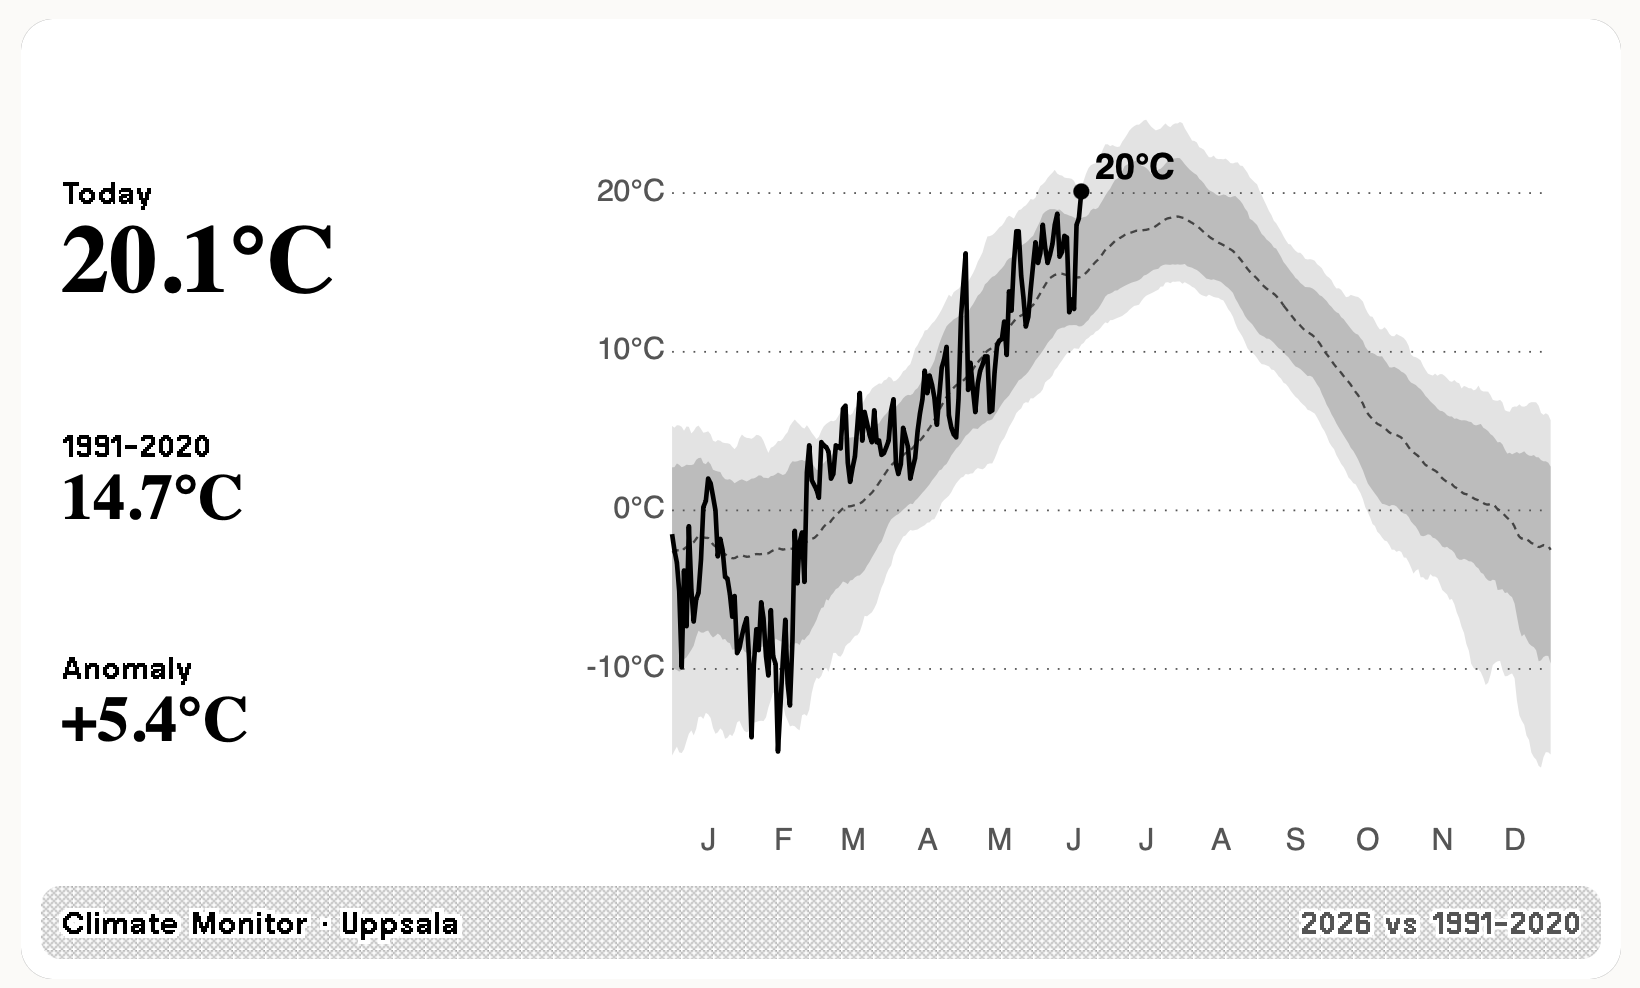
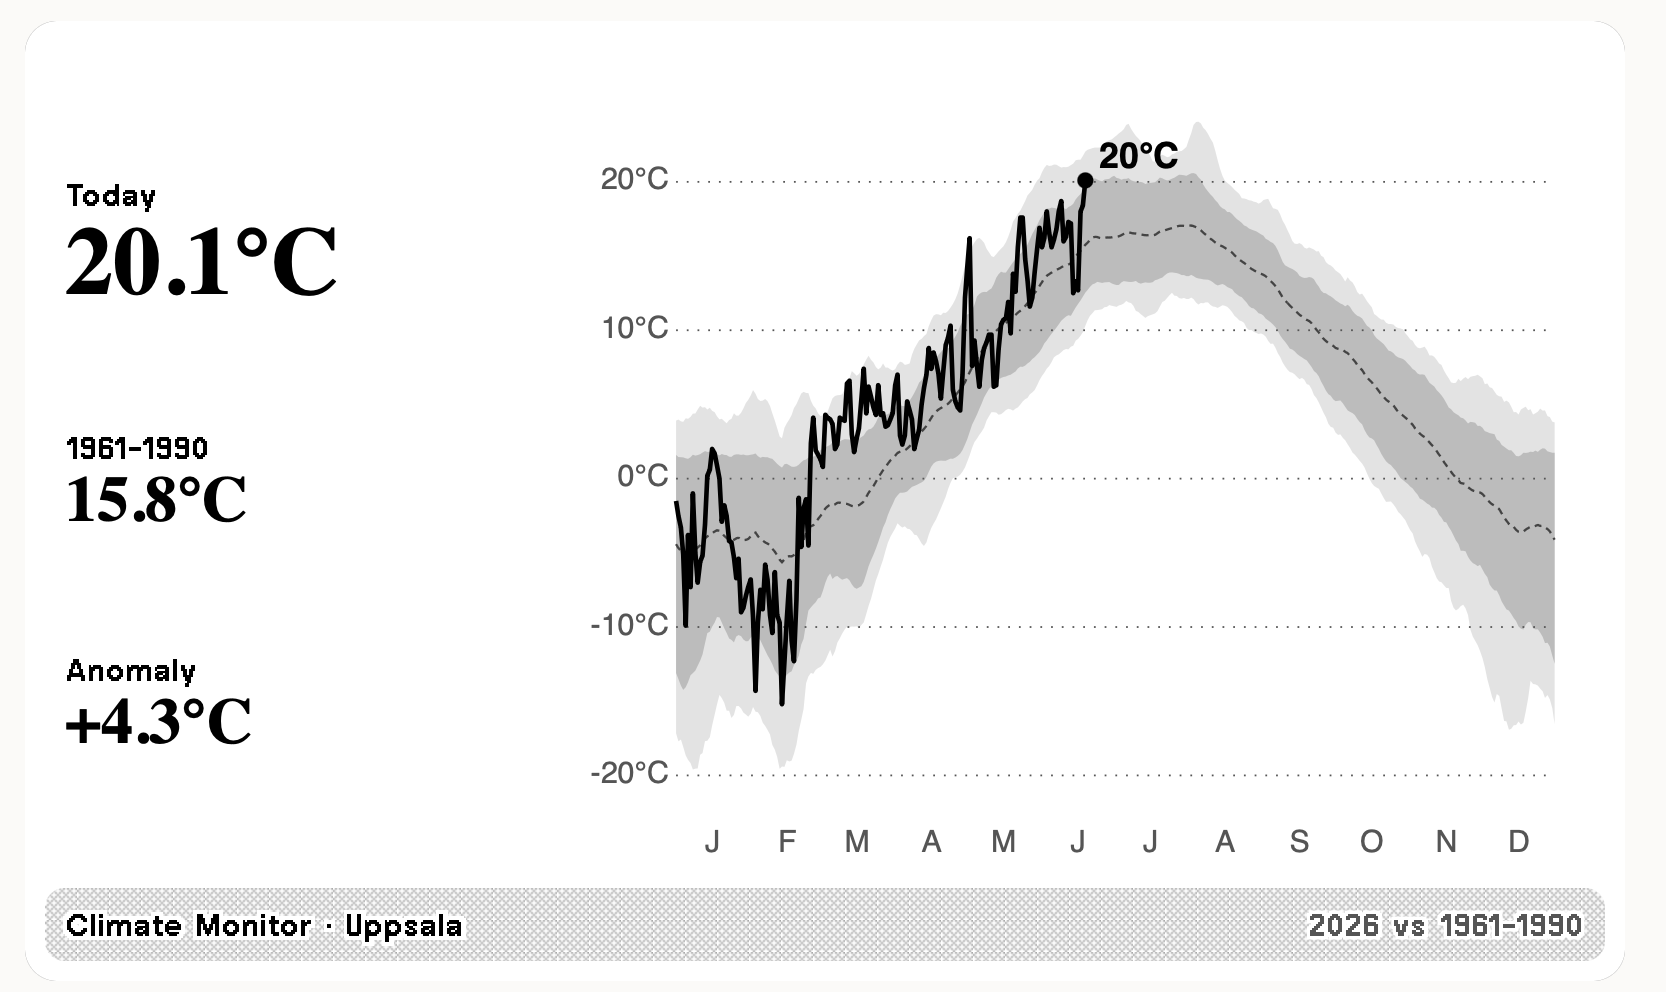
Rewrite README: 1961–1990, full-only view, config in build_data.py; drop Climate Reanalyzer; new preview
Claude-Session: https://claude.ai/code/session_015LeFPvA5oCLnwXVN8aXBe3

diff --git a/README.md b/README.md
@@ -2,12 +2,11 @@
 
 A [TRMNL](https://usetrmnl.com) private plugin that plots this year's daily
 temperature against the 1961–1990 climate normal for any location — in the
-style of the [Reuters automated climate monitor](https://www.reuters.com/graphics/CLIMATE-AUTOMATED/MONITOR/akpeykqqapr/)
-/ Climate Reanalyzer charts.
+style of the [Reuters automated climate monitor](https://www.reuters.com/graphics/CLIMATE-AUTOMATED/MONITOR/akpeykqqapr/).
 
 ![preview](preview.png)
 
-- **Light grey band** — full record range (daily min/max over the normal window)
+- **Light grey band** — the full daily range (min–max over 1961–1990)
 - **Dark grey band** — 10th–90th percentile (a "typical" day)
 - **Dashed line** — the normal (mean) for each day of year
 - **Bold black line** — this year so far, with today's value marked
@@ -15,30 +14,35 @@ style of the [Reuters automated climate monitor](https://www.reuters.com/graphic
 ## How it works
 
 1. `build_data.py` pulls daily mean 2 m temperature from the free
-   [Open-Meteo](https://open-meteo.com) Archive API (no key required),
-   computes the climatology, **renders the chart to SVG**, and writes a compact
-   `data.json`.
-2. A daily GitHub Action runs the script and commits `data.json`.
-3. TRMNL polls the raw `data.json` URL and the Liquid templates embed the SVG.
+   [Open-Meteo](https://open-meteo.com) APIs (no key required) — the Archive
+   API for the climate history and current year, topped up with the Forecast
+   API for the last few days — computes the climatology, **renders the chart to
+   SVG**, and writes a compact `data.json`.
+2. A daily GitHub Action runs the script and commits `data.json` if it changed.
+3. TRMNL polls the raw `data.json` URL and the Liquid template embeds the SVG.
 
-All the maths and drawing happen in the build step, so the templates stay
+All the maths and drawing happen in the build step, so the template stays
 trivial and there's no server to run.
 
 ## Setup
 
 ### 1. Configure your location
 
-Edit the `env:` block in [`.github/workflows/update.yml`](.github/workflows/update.yml):
+Edit the config block at the top of
+[`build_data.py`](build_data.py) — this is the single source of truth:
 
-```yaml
-LAT: "59.3293"        # your latitude
-LON: "18.0686"        # your longitude
-LOCATION: "Stockholm" # label shown on the device
-UNITS: "celsius"      # or "fahrenheit"
+```python
+LAT         = float(os.environ.get("LAT", "59.8586"))   # your latitude
+LON         = float(os.environ.get("LON", "17.6389"))   # your longitude
+LOCATION    = os.environ.get("LOCATION", "Uppsala")     # label on the device
+UNITS       = os.environ.get("UNITS", "celsius")        # or "fahrenheit"
+NORMAL_FROM = int(os.environ.get("NORMAL_FROM", "1961")) # climate-normal window
+NORMAL_TO   = int(os.environ.get("NORMAL_TO", "1990"))
 ```
 
-Find coordinates at e.g. https://www.latlong.net. The same variables work
-locally: `LAT=51.5074 LON=-0.1278 LOCATION=London python3 build_data.py`.
+Find coordinates at e.g. https://www.latlong.net. Each value can also be
+overridden per run via an environment variable, handy for a quick local test of
+another place: `LAT=51.5074 LON=-0.1278 LOCATION=London python3 build_data.py`.
 
 ### 2. Push to GitHub and enable the Action
 
@@ -47,9 +51,12 @@ git init && git add . && git commit -m "TRMNL climate monitor"
 gh repo create trmnl-climate-monitor --public --source=. --push
 ```
 
-In the repo: **Settings → Actions → General → Workflow permissions →
-Read and write**. Then run the workflow once manually (**Actions → Update
-climate data → Run workflow**) so `data.json` is generated.
+The repo must be **public** so TRMNL can poll the raw file without auth. The
+workflow already requests `contents: write`, so it can commit on its own; if the
+push step ever fails with a permissions error, set **Settings → Actions →
+General → Workflow permissions → Read and write**. Run it once now to generate
+`data.json` (**Actions → Update climate data → Run workflow**); after that it
+runs daily at 05:20 UTC.
 
 Your polling URL is:
 
@@ -64,12 +71,8 @@ In the TRMNL web UI: **Plugins → Private Plugin → Add new**.
 - **Strategy:** Polling
 - **Polling URL:** the raw `data.json` URL above
 - **Refresh:** every 12–24 h (the data updates once a day)
-- **Markup:** paste the contents of the files in [`trmnl/`](trmnl/) into the
-  matching layout tabs:
-  - `full.liquid` → Full
-  - `half_horizontal.liquid` → Half (horizontal)
-  - `half_vertical.liquid` → Half (vertical)
-  - `quadrant.liquid` → Quadrant
+- **Markup:** paste [`trmnl/full.liquid`](trmnl/full.liquid) into the **Full**
+  layout tab. (Only the full layout is implemented.)
 
 Save, add it to a playlist, and you're done.
 
@@ -79,16 +82,17 @@ Save, add it to a playlist, and you're done.
 |-------|---------|
 | `location`, `units`, `year`, `updated` | labels |
 | `current_temp`, `normal_temp`, `anomaly`, `anomaly_str` | today vs normal |
-| `normal_window` | e.g. `1991–2020` |
-| `svg_full`, `svg_compact` | pre-rendered charts |
+| `normal_window` | e.g. `1961–1990` |
+| `svg_full` | the pre-rendered chart embedded by `full.liquid` |
+| `svg_compact` | a wider/shorter chart variant, still generated but currently unused |
 
 ## Notes & limits
 
 - Open-Meteo's archive lags real time by a few days; the script tops up the
-  last ~10 days (including today) from the forecast endpoint, so the tip of the
-  line is a forecast-grade estimate, not yet reanalysis.
+  last ~10 days (including today) from the Forecast API, so the tip of the line
+  is a forecast-grade estimate until the reanalysis catches up.
 - This tracks a **point location**, not the global mean the Reuters monitor
   shows. For a regional average, average several `build_data.py` runs or extend
   the script to query multiple points.
 - Open-Meteo is free for non-commercial use; this stays well within limits
-  (two requests/day).
+  (two API requests per daily run).